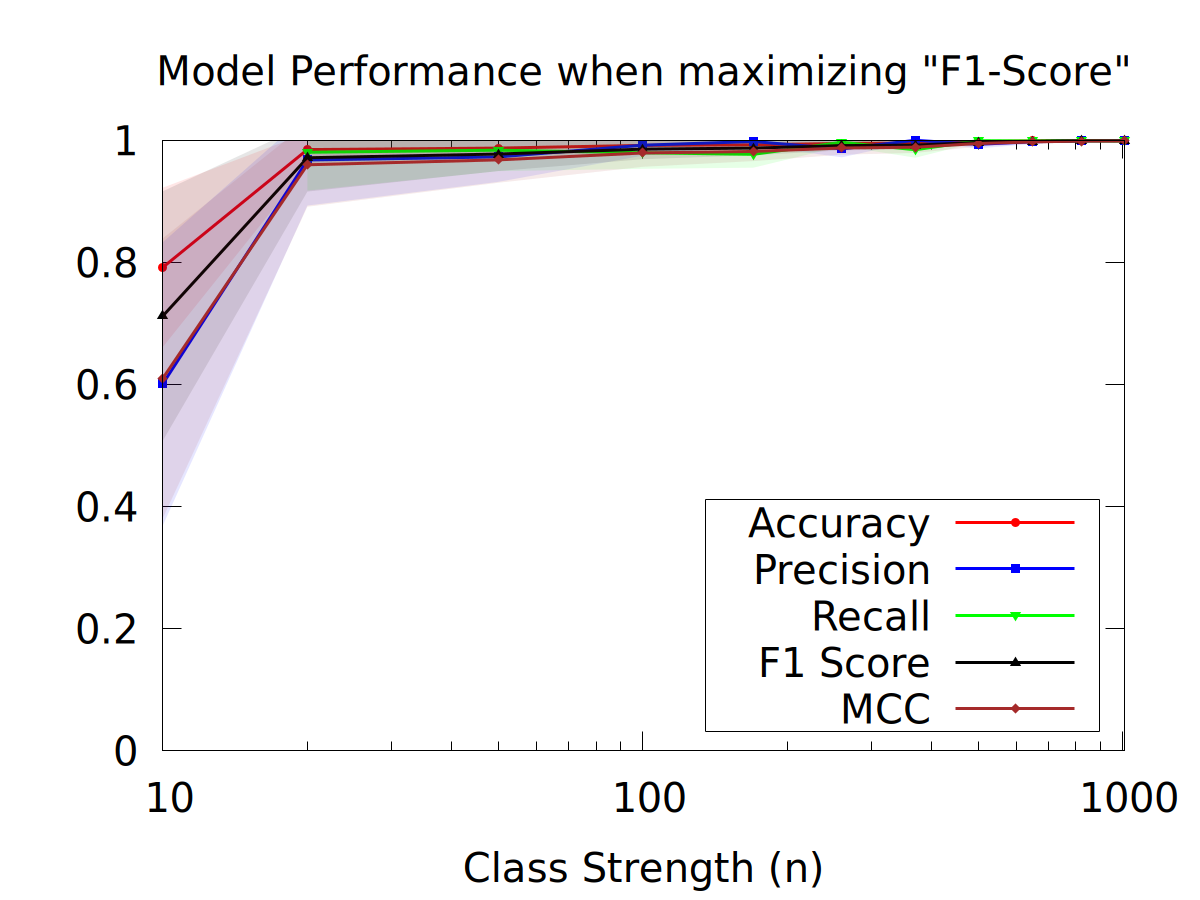
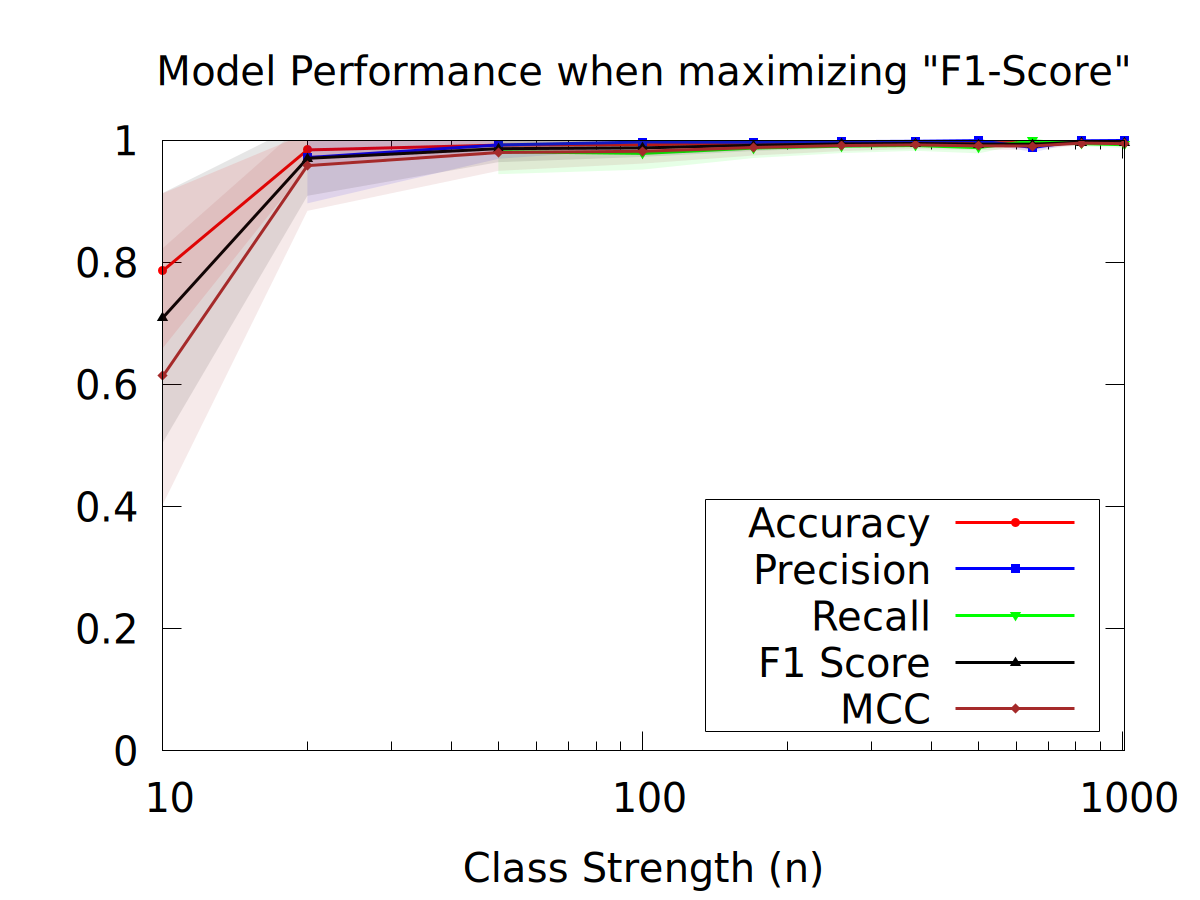
Modelled k, b as function of a instead of n.

diff --git a/src/main.cpp b/src/main.cpp
@@ -25,13 +25,8 @@
 * @param seed: Random Number Generator Seed
 * @param b: b for voting for absent student
 */
-inline Stats simulate(int n, float m, float k, float a, float p, float q, float r, int seed = -1, float b = 0.05, bool printVoteCount = false)
+inline Stats simulate(int n, int m, int k, int a, float p, float q, float r, int seed = -1, int b = 0.05, bool printVoteCount = false)
 {
-    m = std::round(n * m);
-    a = std::round(n * a);
-    k = std::round(n * k);
-    b = std::round(n * b);
-
     std::bernoulli_distribution vote_present_dist(p);
     std::bernoulli_distribution vote_absent_dist(q);
     std::bernoulli_distribution is_present_dist(r);
@@ -131,7 +126,7 @@ inline Stats simulate(int n, float m, float k, float a, float p, float q, float 
     return stats;
 }
 
-inline std::pair<Stats, Stats> experiment(int n, float m, float k, float a, float p, float q, float r, int seed = -1, float b = 0.05)
+inline std::pair<Stats, Stats> experiment(int n, int m, int k, int a, float p, float q, float r, int seed = -1, int b = 0.05)
 {
     // Stats res = simulate(n, m, k, a, p, q, r, seed, b, true);
 
@@ -153,7 +148,7 @@ inline std::pair<Stats, Stats> experiment(int n, float m, float k, float a, floa
 
 // Function to compute the least squares coefficient for a given variable
 template <typename T1, typename T2>
-inline void fitLinear(const std::vector<T1> &x, std::vector<std::vector<T2>> &y, std::string var_name)
+inline void fitLinear(const std::vector<T1> &x, std::vector<std::vector<T2>> &y, std::string x_var_name, std::string y_var_name)
 {
     std::string metric[5] = {"Accuracy", "Precision", "Recall", "F1-Score", "MCC"};
 
@@ -168,7 +163,28 @@ inline void fitLinear(const std::vector<T1> &x, std::vector<std::vector<T2>> &y,
             sum_xy += x[j] * y[i][j];
         }
         double c = sum_xy / sum_x2;
-        std::cout << var_name << " varies as (" << c << " * n) when optimizing for " << metric[i] << std::endl;
+        std::cout << y_var_name << " varies as (" << c << " * " << x_var_name << ") when optimizing for " << metric[i] << std::endl;
+    }
+}
+
+// Function to compute the least squares coefficient for a given variable
+template <typename T1, typename T2>
+inline void fitLinear(const std::vector<std::vector<T1>> &x, std::vector<std::vector<T2>> &y, std::string x_var_name, std::string y_var_name)
+{
+    std::string metric[5] = {"Accuracy", "Precision", "Recall", "F1-Score", "MCC"};
+
+    for (int i = 0; i < y.size(); i++)
+    {
+        double sum_x = 0.0, sum_x2 = 0.0, sum_y = 0.0, sum_xy = 0.0;
+        for (int j = 0; j < y[i].size(); j++)
+        {
+            sum_x += x[i][j];
+            sum_x2 += x[i][j] * x[i][j];
+            sum_y += y[i][j];
+            sum_xy += x[i][j] * y[i][j];
+        }
+        double c = sum_xy / sum_x2;
+        std::cout << y_var_name << " varies as (" << c << " * " << x_var_name << ") when optimizing for " << metric[i] << std::endl;
     }
 }
 
@@ -1156,18 +1172,20 @@ int main(int argc, char *argv[])
             std::vector<std::vector<int>> controls;
 
             double log_n = std::log(n);
-            float a = 20.0 / (log_n * log_n * log_n);
-            if (a > 0.9)
-                a = 0.9;
+            // float a = 20.0 / (log_n * log_n * log_n);
+            // float a = (log_n * log_n) / (float)n;
             // float a = 2.0 / std::log(n);
+            float a = 5.0 * log_n;
+            if (a > 0.9 * n)
+                a = 0.9 * n;
             for (float m = 0.02; m < 0.11; m += 0.02)
-                for (float k = 0.1 * a; k < a * 0.9; k += 0.09 * a)
-                    for (float b = 0.1 * a; b < a * 0.9; b += 0.09 * a)
+                for (float k = 0.1; k < 0.9; k += 0.09)
+                    for (float b = 0.1; b < 0.9; b += 0.09)
                     {
-                        controls.push_back({static_cast<int>(std::round(a * n)),
+                        controls.push_back({static_cast<int>(std::round(a)),
                                             static_cast<int>(std::round(m * n)),
-                                            static_cast<int>(std::round(k * n)),
-                                            static_cast<int>(std::round(b * n))});
+                                            static_cast<int>(std::round(k * a)),
+                                            static_cast<int>(std::round(b * a))});
                     }
 
             std::vector<std::vector<std::pair<Stats, Stats>>> best_result(threads, std::vector<std::pair<Stats, Stats>>(5, {Stats(), Stats()}));
@@ -1180,10 +1198,10 @@ int main(int argc, char *argv[])
                 int t = omp_get_thread_num();
                 // std::cout << "Thread " << t << " : " << i << ", " << cnt << std::endl;
 
-                a = ((float)v[0]) / ((float)n);
-                m = ((float)v[1]) / ((float)n);
-                k = ((float)v[2]) / ((float)n);
-                b = ((float)v[3]) / ((float)n);
+                a = v[0];
+                m = v[1];
+                k = v[2];
+                b = v[3];
                 std::pair<Stats, Stats> result = experiment(n, m, k, a, p, q, r, seed, b);
                 if (result.first.accuracy > best_result[t][0].first.accuracy)
                 {
@@ -1453,10 +1471,10 @@ int main(int argc, char *argv[])
                 fout << x[i] << "," << best_a[j][i] << "," << best_m[j][i] << "," << best_k[j][i] << "," << best_b[j][i] << std::endl;
         }
 
-        fitLinear(x, best_a, "a");
-        fitLinear(x, best_m, "m");
-        fitLinear(x, best_k, "k");
-        fitLinear(x, best_b, "b");
+        // fitLinear(x, best_a, "a");
+        fitLinear(x, best_m, "n", "m");
+        fitLinear(best_a, best_k, "a", "k");
+        fitLinear(best_a, best_b, "a", "b");
     }
 
     return 0;
